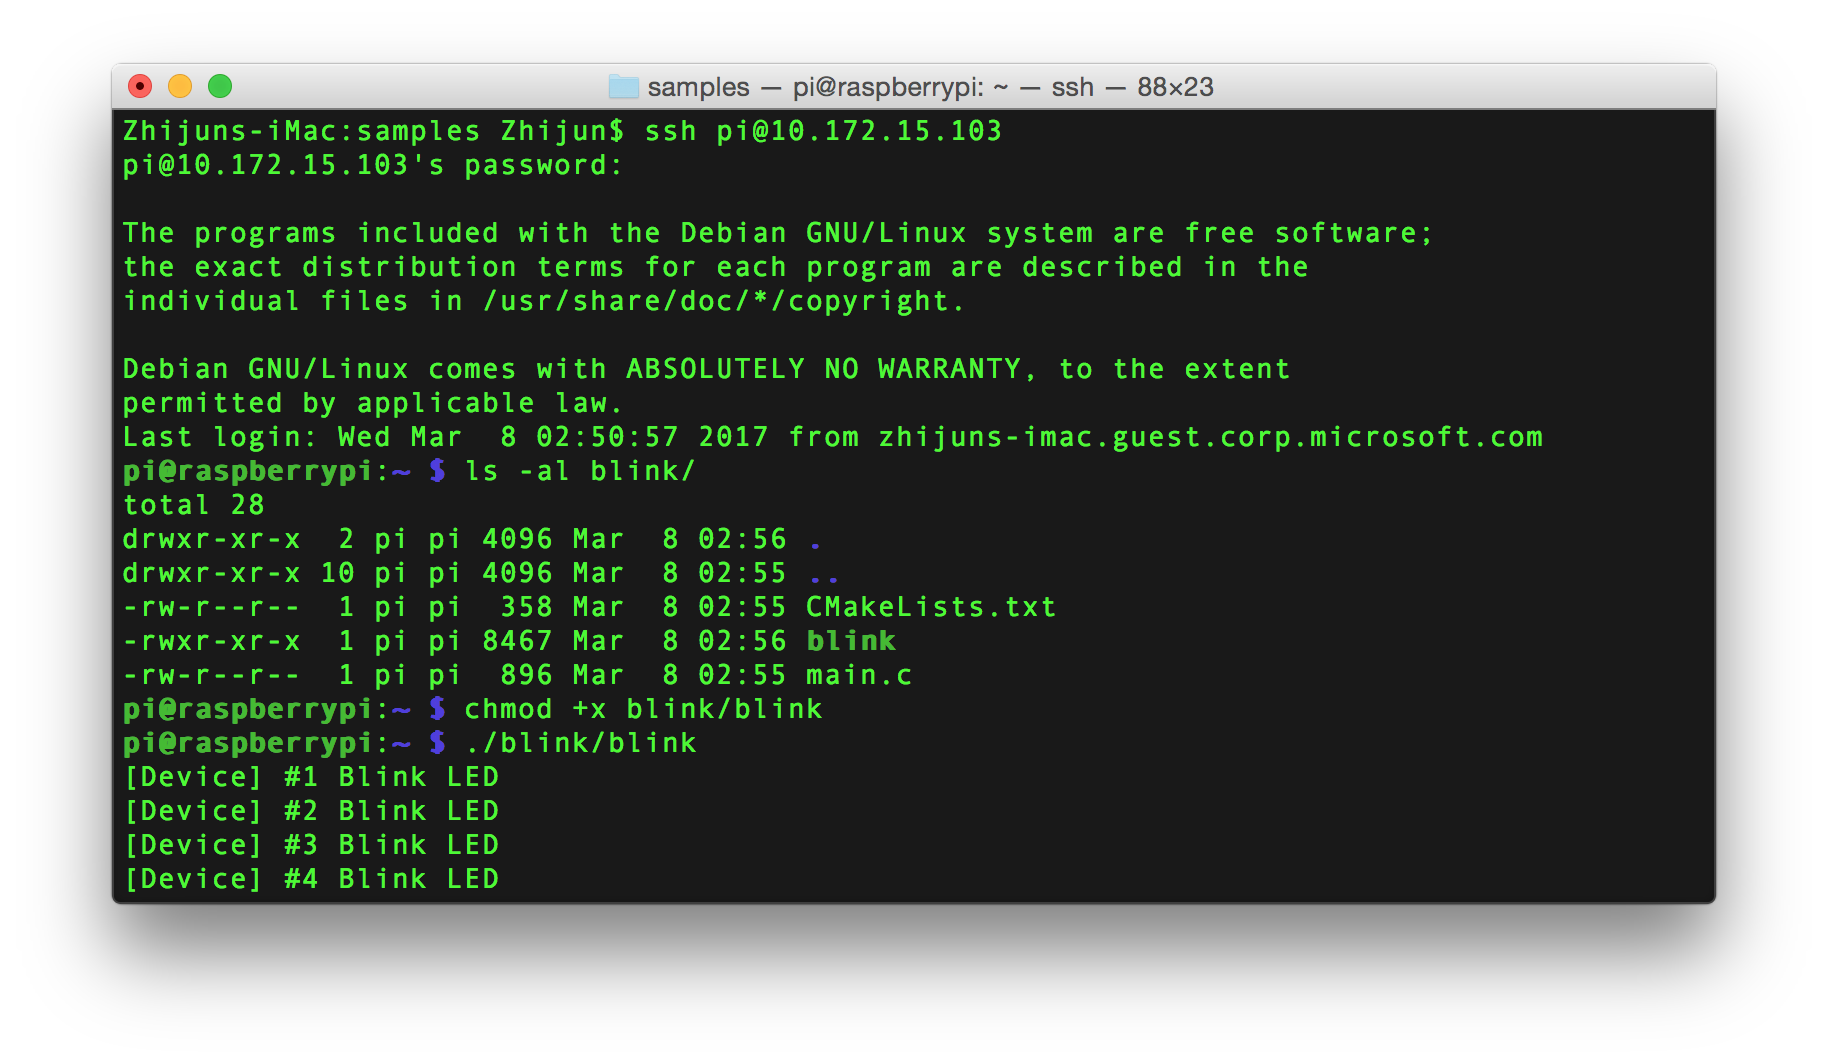
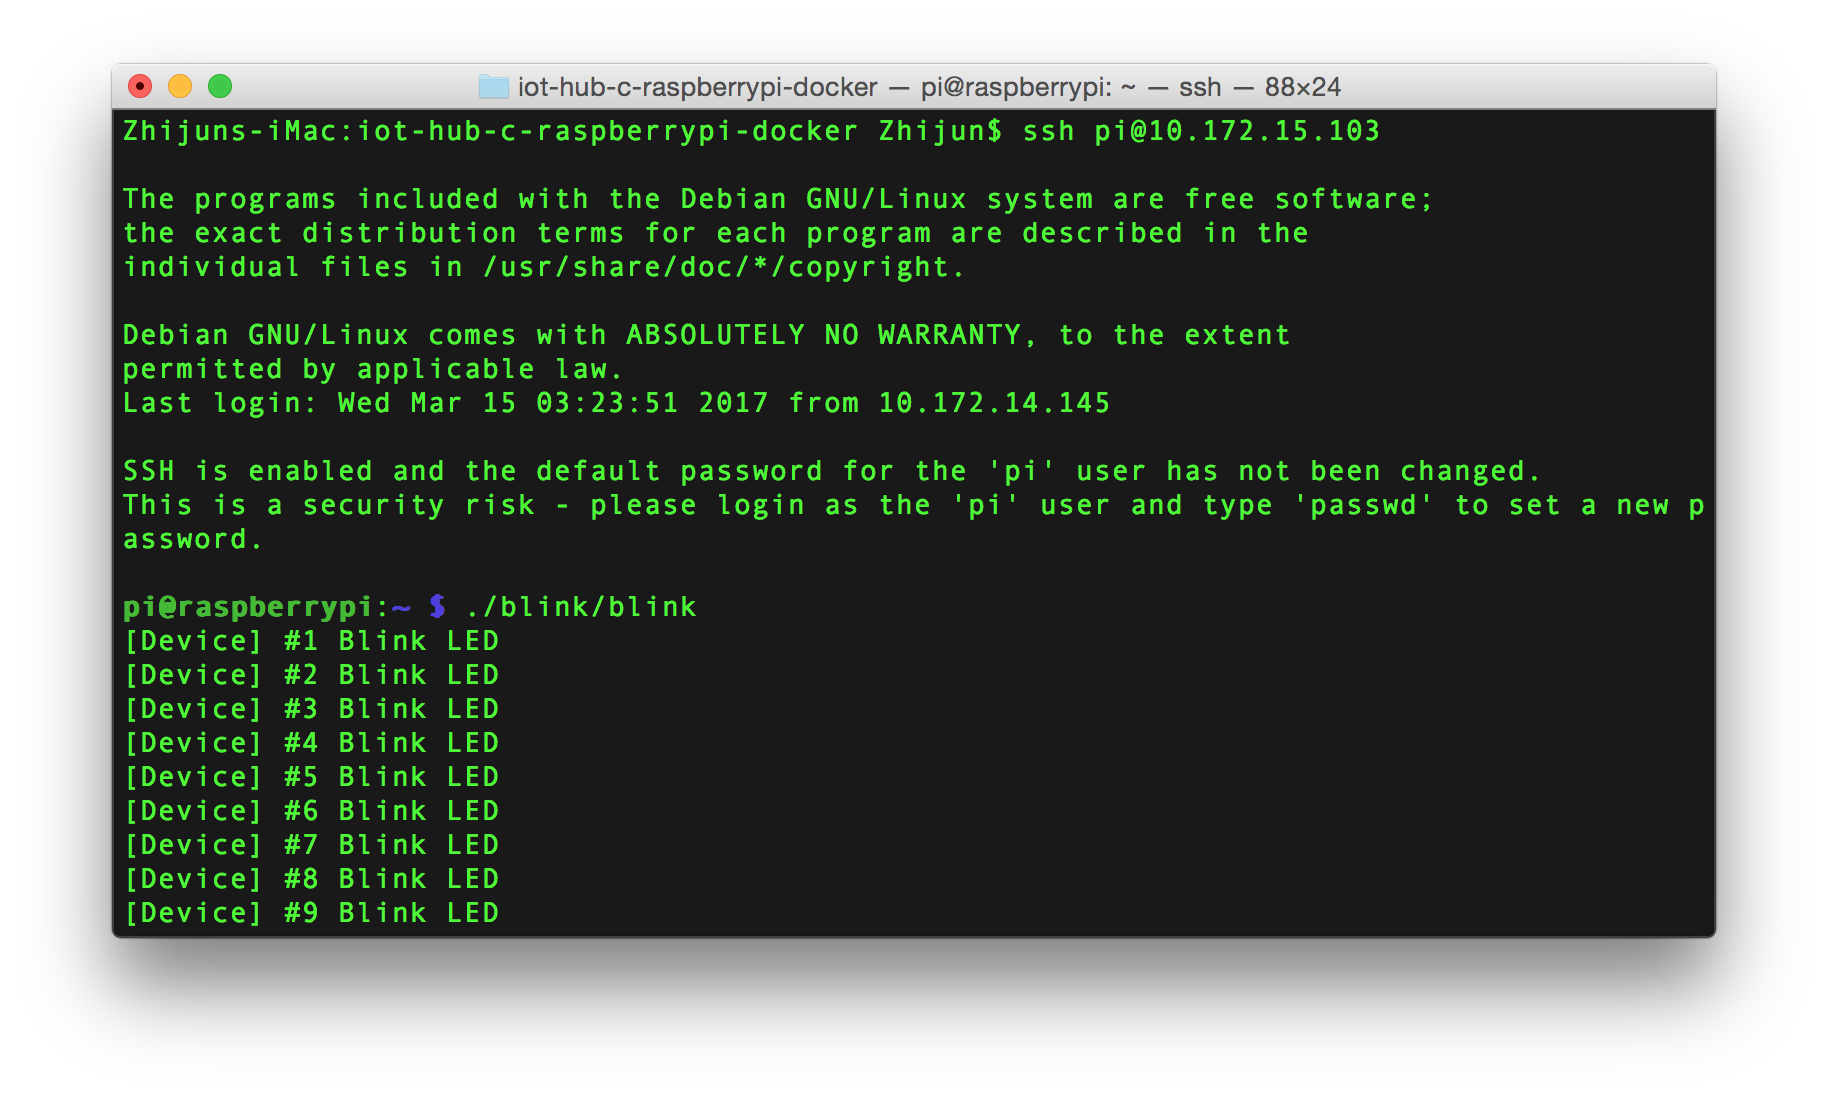
built app has the +x permission (#13)

Changed region(s): [[0.0624, 0.062, 0.9354, 0.8684]]

diff --git a/doc/mac-os-x-10.10.md b/doc/mac-os-x-10.10.md
@@ -74,11 +74,10 @@ Go to [Docker website](https://www.docker.com/). Scroll down and find the `Get D
    ```
    ![scp.png](media/mac/scp.png)
 
-2. Use SSH to login in to the Pi device. Then add executable permission to the built app. Finally, run the app.
+2. Use SSH to login in to the Pi device and run the app.
 
    ```bash
    ssh <user name>@<device ip address>
-   chmod +x blink/blink
    ./blink/blink
    ```
 
